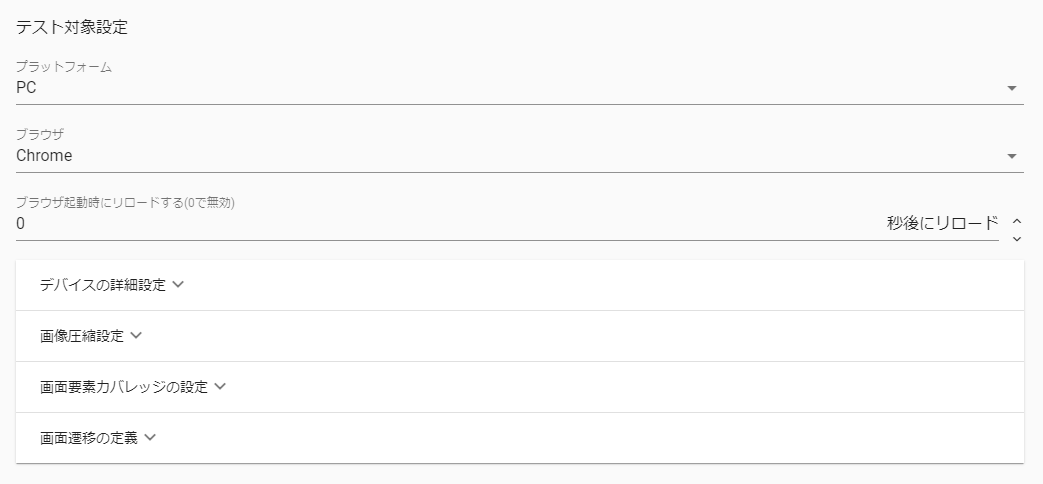
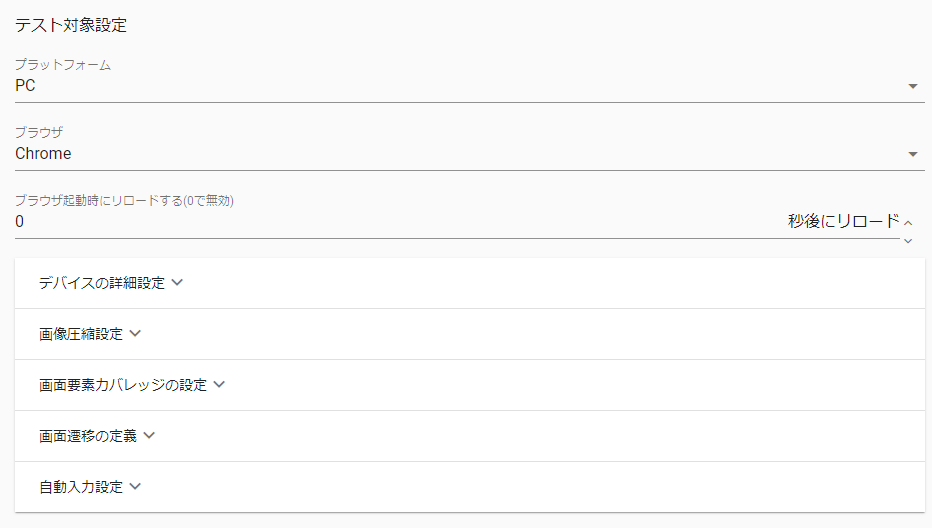
fix #387 documentation for autofill (#410)

diff --git a/docs/manual/capture/manual-capture.md b/docs/manual/capture/manual-capture.md
@@ -11,9 +11,9 @@
   - [履歴リセットボタン](#履歴リセットボタン)
   - [過去のテスト結果の読み込みボタン](#過去のテスト結果の読み込みボタン)
   - [メニューボタン](#メニューボタン)
-    - [データインポート](#データインポート)
+    - [テスト結果のインポート](#テスト結果のインポート)
     - [スクリプト生成](#スクリプト生成)
-    - [データエクスポート](#データエクスポート)
+    - [テスト結果のエクスポート](#テスト結果のエクスポート)
     - [履歴を再生する/履歴再生を中止する](#履歴を再生・中止する)
     - [スクリーンショット出力](#スクリーンショット出力)
     - [テスト結果の削除](#テスト結果の削除)
@@ -32,6 +32,7 @@
   - [画像圧縮設定](#画像圧縮設定)
   - [画面要素カバレッジの設定](#画面要素カバレッジの設定)
   - [画面遷移の定義](#画面遷移の定義)
+  - [自動入力設定](#自動入力設定)
 - [履歴画面](#履歴画面)
   - [スクリーンショット出力ボタン](#スクリーンショット出力ボタン)
   - [モデル・カバレッジ更新ボタン](#モデル・カバレッジ更新ボタン)
@@ -114,16 +115,16 @@
 
 押下すると以下の機能一覧を表示します。
 
-- データインポート
+- テスト結果のインポート
 - スクリプト生成
-- データエクスポート
+- テスト結果のエクスポート
 - 履歴を再生する
 - スクリーンショット出力
 - テスト結果の削除
 
-### データインポート
+### テスト結果のインポート
 
-メニューボタンの一覧から押下すると`latteart-repository\public\imports`フォルダ配下の zip ファイル名一覧を取得して表示され、選択したテスト結果をインポートすることができます。  
+メニューボタンの一覧から押下するとインポートダイアログが表示され、選択したテスト結果をインポートすることができます。  
 インポートしたテスト結果は「過去のテスト結果の読み込みボタン」からテスト結果を選択することで読み込むことができます。  
 インポートファイル(zip)内の構成は以下の通り
 
@@ -143,9 +144,9 @@
 メニューボタンの一覧から押下すると現在表示しているテスト結果を元にテストスクリプトを生成します。
 詳細は「[テストスクリプト自動生成](../common/test-script-generation.md)」をご参照ください。
 
-### データエクスポート
+### テスト結果のエクスポート
 
-メニューボタンの一覧から押下すると現在表示しているテスト結果をエクスポートすることができます。  
+メニューボタンの一覧から押下するとエクスポートダイアログが表示され、現在表示しているテスト結果をエクスポートすることができます。
 エクスポートファイル(zip)内の構成は以下の通り
 
 - test_result_YYYYDDMM_HHmmss.zip
@@ -229,6 +230,12 @@
 :warning: タブ・ウィンドウ切り替えダイアログは、本ボタン押下時以外に、別タブ・ウインドウが新しく開かれた際にも自動的に開かれます。
 
 :warning: 非アクティブなタブ・ウィンドウは薄暗く表示され、クリックなどの操作を受け付けません。
+
+## 自動入力ボタン
+
+<img src="./images/autofill.png"/>
+
+「自動入力：選択」ダイアログを表示します。有効な自動入力値セットがある場合、活性化します。「自動入力」についての詳細は[「自動入力設定」](#自動入力設定)をご参照ください。
 
 ## メモボタン
 
@@ -363,6 +370,62 @@ USB で接続されているデバイスを選択することができます。
     - 指定されたテキストがマッチ種別で選択した「URL/タイトル/キーワード」に、マッチ方法で選択した「文字列が含まれている/文字列と一致している/正規表現がマッチしている」でマッチしているか判定します。
   - 詳細条件削除ボタン
     - 該当行の詳細条件を削除します。詳細条件が 2 行以上存在する場合のみ表示されます。詳細条件を全て削除したい場合は定義を削除してください。
+
+## 自動入力設定
+
+<img src="./images/autofill_setting.png"/>
+
+操作記録時に使用する入力値セットを事前に登録しておくと、操作記録中に該当画面を開いた際に自動で入力要素(テキストボックスやチェックボックス等)に値を入力することができます。
+テスト中に頻繁に同じ値を入力する場合等に有効です。
+
+- 入力値を登録するポップアップを自動表示するチェックボックス
+  - ON にすると、入力要素を自動検知し、「自動入力：登録」ダイアログが開きます。
+- 入力値を選択するポップアップを自動表示するチェックボックス
+  - ON にすると、登録している入力値セットに該当する画面を開くと「自動入力：選択」ダイアログが開きます。
+- 入力値セットの追加
+  - 入力値セットを追加します。
+
+### 入力値セット
+
+- 有効/無効（入力値セット）チェックボックス
+  - ON にすると、入力値セットが有効になります。
+- 入力値セット名
+  - 入力値セットの名前です。
+- 入力値セット削除ボタン
+  - 入力値セットを削除します。
+- url
+  - 入力値セットの対象となる画面の url です。対象画面の url と title が入力値セットの url と title に一致することで自動入力が使用できます。
+- title
+  - 入力値セットの対象となる画面の title です。対象画面の url と title が入力値セットの url と title に一致することで自動入力が使用できます。
+- 有効/無効（入力値）チェックボックス
+  - ON にすると、入力値が有効になります。
+- Locator Type
+  - 自動入力対象となる画面要素の Locator のタイプです。ID と xpath を選択できます。
+- Locator Match Type
+  - 自動入力対象となる画面要素と Locator との一致の仕方を指定します。equals（完全一致）と regex（正規表現）を指定できます。
+- Locator
+  - 自動入力対象となる画面要素の Locator です。ID を指定した場合は ID、xpath を指定した場合は xpath を入力します。（Locator Match Type を regex に指定した場合、正規表現の入力が可能です）
+- 入力値
+  - 入力要素に入力する値を設定します。
+- 入力値削除ボタン
+  - 入力値を削除します。
+
+### 「自動入力：登録」ダイアログ
+
+<img src="./images/autofill_register_dialog.png"/>
+
+「入力値を登録するポップアップを自動表示する」を ON に設定すると自動で表示されます。
+表示タイミングは、キャプチャー中の画面に入力要素が存在し、その画面から他の画面への遷移時です。
+入力値セット名を入力し、OK ボタンを押下すると入力値セットが登録されます。
+Locator は対象の入力要素に ID が設定されていれば ID、設定されていない場合は xpath が登録されます。
+
+### 「自動入力：選択」ダイアログ
+
+<img src="./images/autofill_select_dialog.png"/>
+
+「入力値を選択するポップアップを自動表示する」を ON に設定すると自動で表示されます。
+表示タイミングは、入力値セットの url と title に一致した画面に遷移時です。
+セレクトボックスで入力値セットを選択し、OK ボタンを押下すると自動入力が実行されます。
 
 # 履歴画面
 
@@ -508,6 +571,8 @@ USB で接続されているデバイスを選択することができます。
   - 本チェックボックスを ON にすると、テスト中の操作にて明示的に入力された値以外（デフォルト値等の元々画面要素に入っていた値）のセルをグレーアウトして表示します。
 - hidden 要素は表示しない
   - ON にすると入力値一覧から hidden 要素が非表示になります。
+- 入力値セット登録ボタン
+  - 「自動入力：登録」ダイアログが開きます。該当する行の値を入力値セットとして登録することができます。「自動入力」についての詳細は[「自動入力設定」](#自動入力設定)をご参照ください。
 
 ## 画面要素カバレッジ
 

diff --git a/docs/manual/management/manual-management.md b/docs/manual/management/manual-management.md
@@ -66,8 +66,8 @@
 
 - スナップショット出力
 - テストスクリプト生成
-- データインポート
-- データエクスポート
+- プロジェクトのインポート
+- プロジェクトのエクスポート
 
 #### スナップショット出力
 
@@ -81,13 +81,13 @@
 オプション機能の一覧から押下すると登録された全てのセッションを元にテストスクリプトを生成します。
 詳細は「[テストスクリプト自動生成](../common/test-script-generation.md)」をご参照ください。
 
-#### データインポート
+#### プロジェクトのインポート
 
 オプション機能の一覧から押下するとインポート対象ファイル選択ダイアログが表示されます。
 
 <img src="images/import-dialog.png" />
 
-`latteart-repository\public\imports`フォルダ配下の zip ファイル名一覧を取得してプルダウンリストに表示され、プロジェクト情報、テスト結果情報のチェックボックスでインポート対象を選択可能です。  
+「選択」ボタンを押下するとファイル選択ダイアログが表示され、プロジェクト情報、テスト結果情報のチェックボックスでインポート対象を選択可能です。  
 OK ボタンを押下し、データがインポートされます。
 
 :bulb: プロジェクト情報とは、管理ツールで表示されている全てのテストマトリクスを指します。
@@ -114,7 +114,7 @@ OK ボタンを押下し、データがインポートされます。
 :bulb: 過去バージョンからデータをインポートしたい場合は
 `latteart-repository\public`配下を選択し、zip にしたものをインポートします。
 
-#### データエクスポート
+#### プロジェクトのエクスポート
 
 オプション機能の一覧から押下するとエクスポート対象選択ダイアログが表示されます。
 
